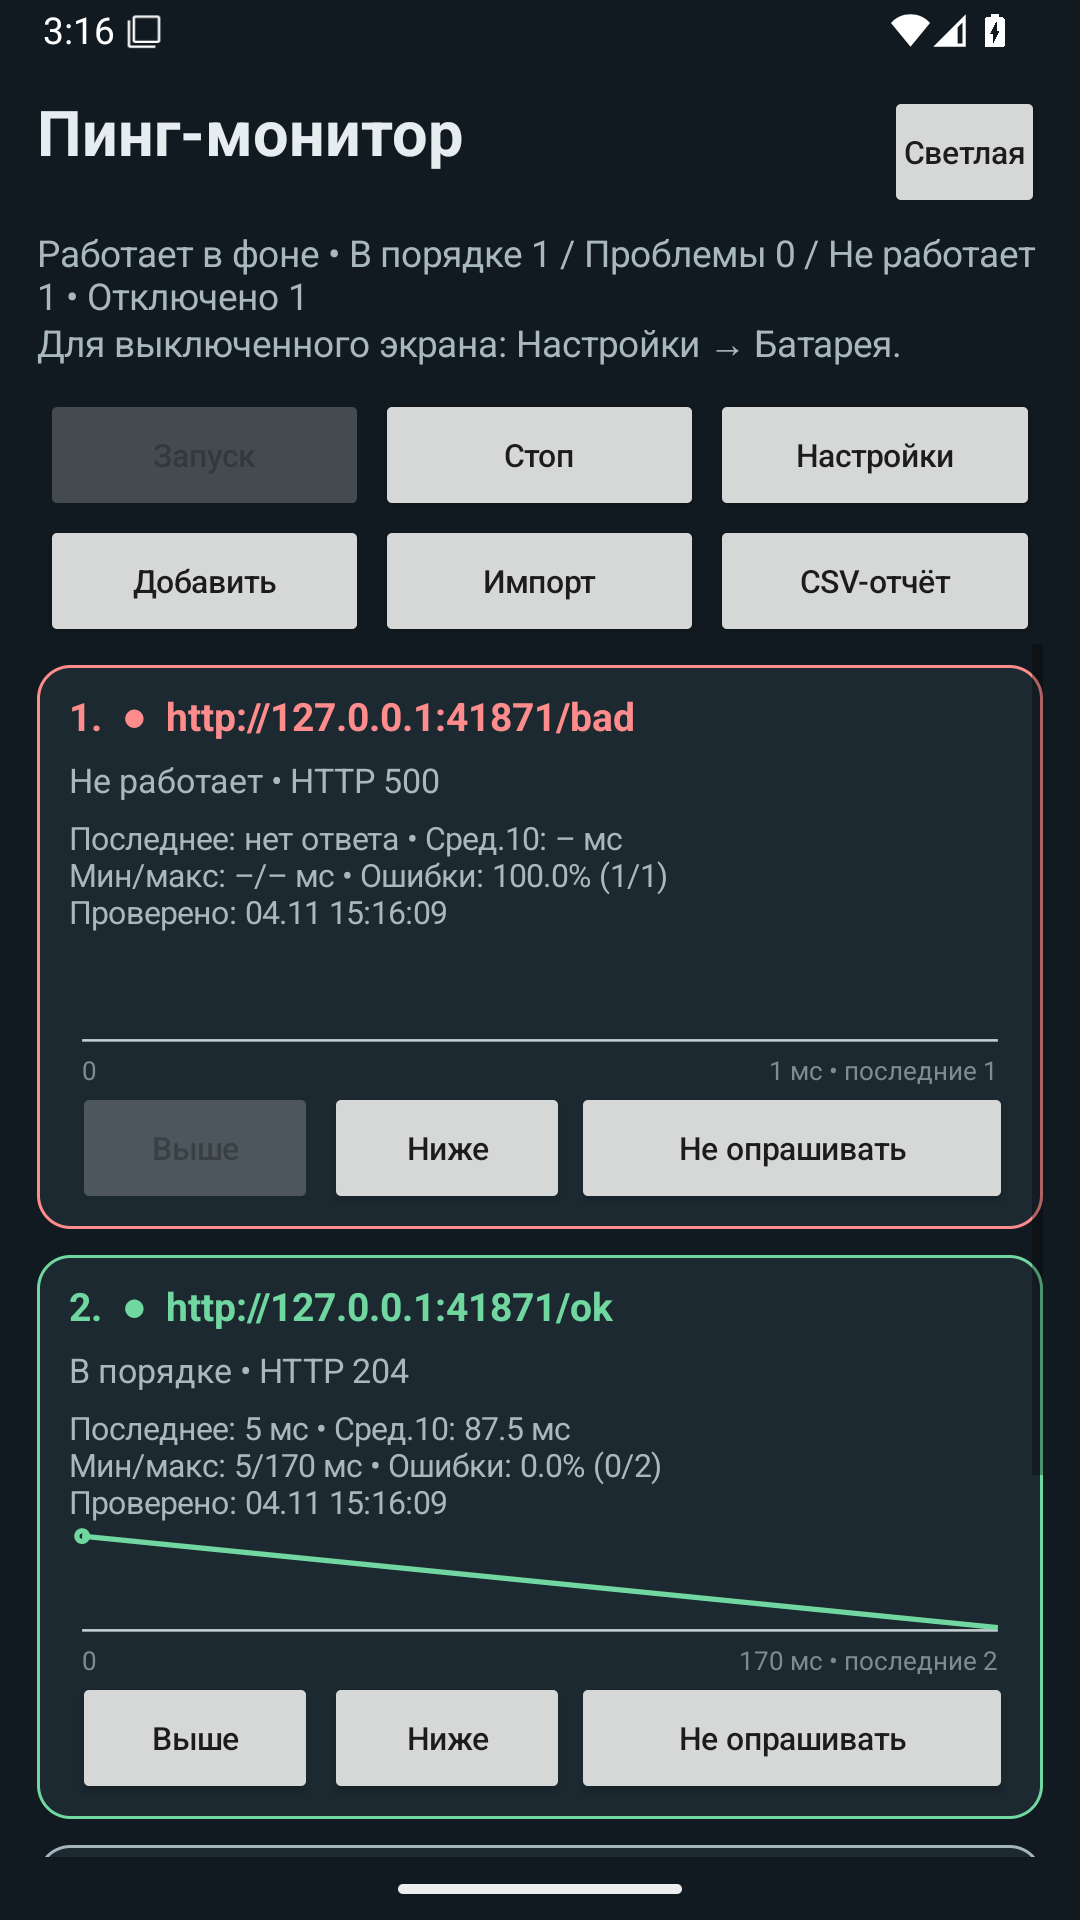
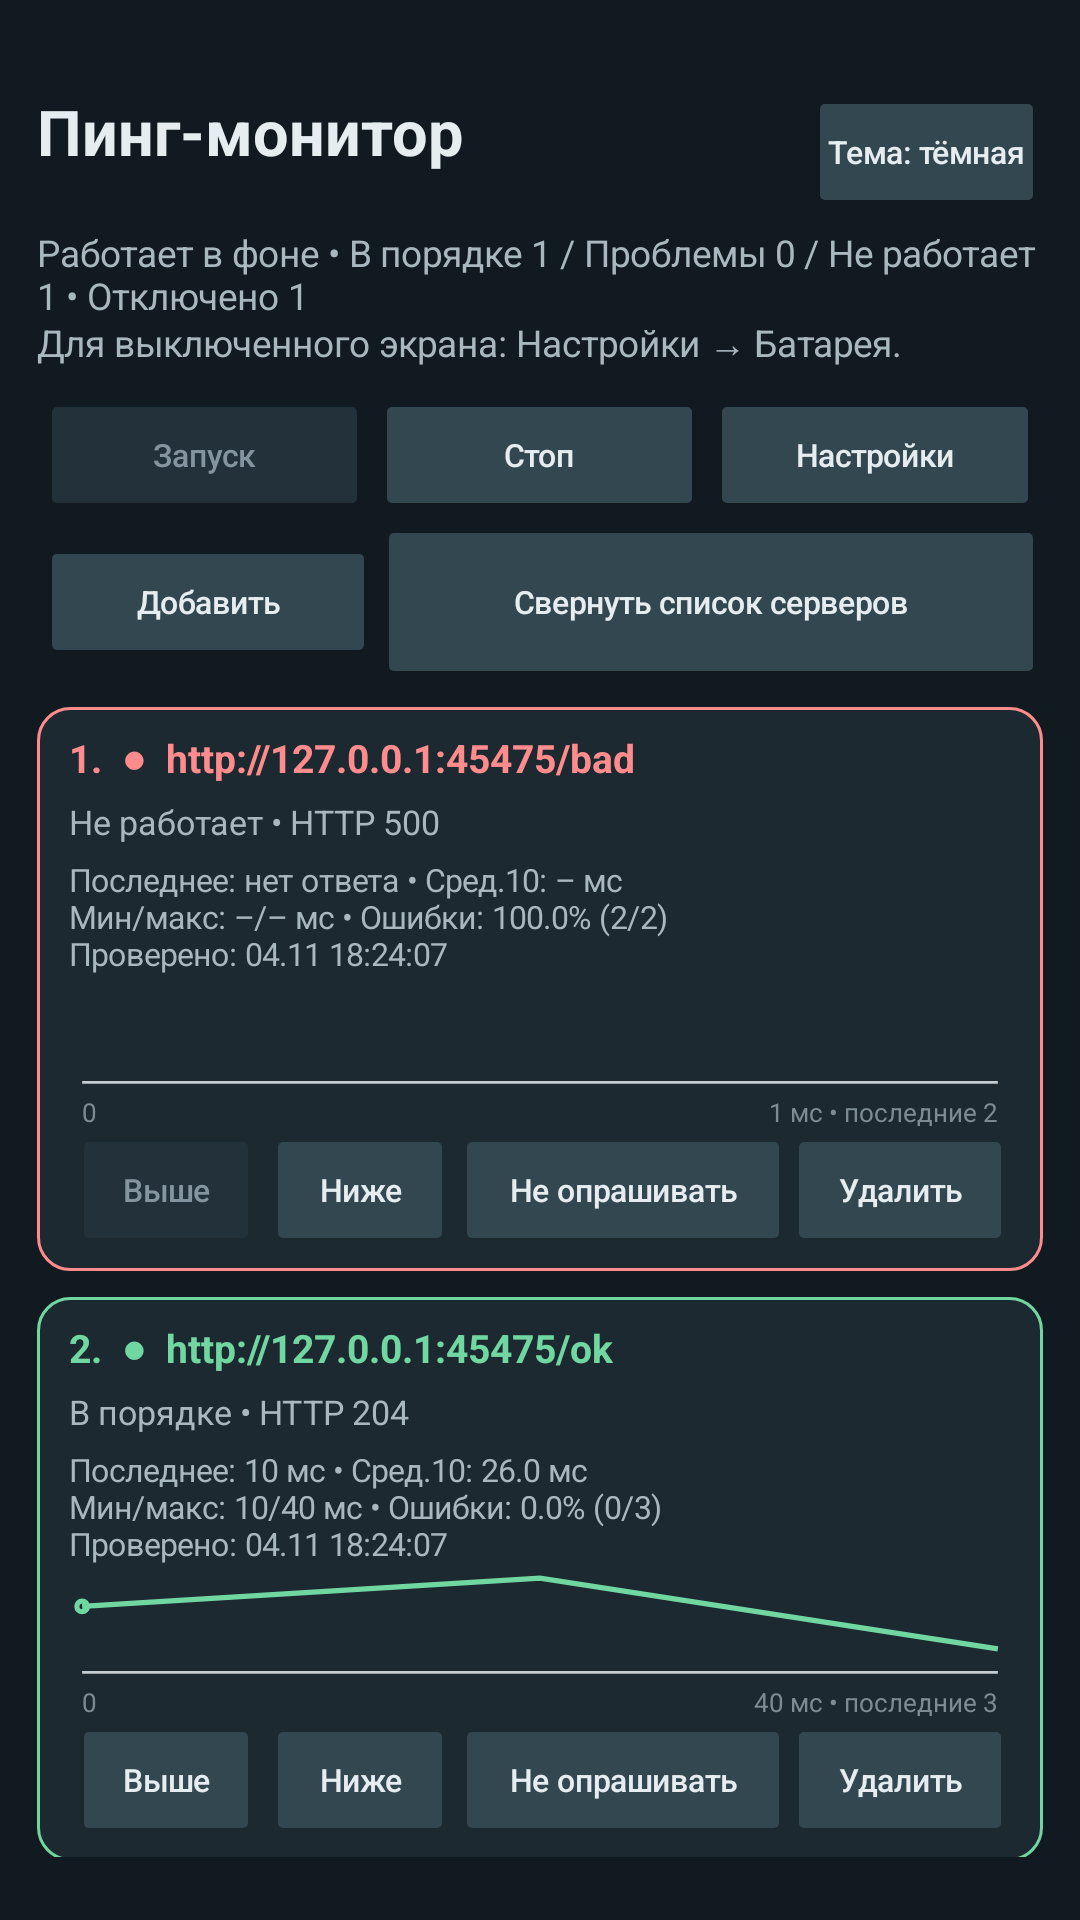
Document 1.1.0 verification and refresh native interface screenshots [skip ci]

diff --git a/docs/TESTING_1.1.0.md b/docs/TESTING_1.1.0.md
@@ -1,0 +1,52 @@
+# Проверка выпуска 1.1.0
+
+Исходники проверенного приложения: `f5068ee0404c243f47db5718ada94ccf7114cecc`. Итоговый [GitHub Actions](https://github.com/wadi-li/ping-monitor-android/actions/runs/41886158974) успешно завершил обе задачи: сборку и Android instrumentation; прошли 79 JVM-проверок и 121 проверка Android 15 / API 35.
+
+Последующие изменения перед публикацией затрагивают только документацию и снимки интерфейса, без изменений приложения и тестового сценария.
+
+## Логика и сборка
+
+- **JVM:** локально и в CI успешно выполнены 79 проверок. Помимо прежних сетевых интеграций проверены среднее последних семи полученных измерений, пропуск таймаутов, недостаточное число измерений, нулевое измерение и отсутствие ответов.
+- **Формат списка:** сохранение UTF-8 BOM, полного URL с `;` в query, порядка адресов и признаков опроса; обратный импорт, старые TXT/CSV без флагов, пустые строки и отклонение повреждённых значений.
+- **Сборки:** выполнены `assembleRelease`, `assembleDebug`, `assembleDebugAndroidTest` и `lintDebug`. Статический анализ: 0 ошибок, 6 предупреждений `SetTextI18n`/`HardcodedText` о локализации текущего русского интерфейса.
[1 lines of base64/hex data omitted]
+
+## Новый сценарий Android
+
+Инструментальный сценарий успешно выполнил 121 проверку на Android 15 / API 35, профиль Pixel 2 x86_64, с настоящим локальным HTTP-сервером. Помимо прежних проверок мониторинга проверены следующие операции:
+
+- **Компактный режим:** сохранение переключателя, горизонтальная строка из адреса/среднего/мини-графика, отсутствие полноразмерных кнопок, восстановление после пересоздания Activity и возврат к полной карточке.
+- **PNG:** нажатие строки, изображение `BitmapDrawable` в диалоге, сохранение через обработчик результата выбора документа и декодирование полученного файла 1200 × 400.
+- **Import / Export:** отдельный пункт в настройках, отсутствие файловых кнопок на главном экране, экспорт реального CSV-файла с BOM, порядком и флагами.
+- **Обратная загрузка:** изменение порядка и флага в интерфейсе, загрузка экспортированного файла и подтверждение замены, восстановление сохранённых значений.
+- **Удаление:** отдельная кнопка на карточке, отмена подтверждения без изменения списка и подтверждённое удаление из сохранённой конфигурации.
+- **Темы:** три варианта выбора, сохранение светлой/тёмной/системной темы, настоящее изменение `uiMode` эмулятора, пересоздание Activity и проверка цвета фона в системном режиме.
+- **Контраст кнопок:** проверены цвета текста и фона в светлом, тёмном, системном режимах и после повторного построения компактного списка. Отдельно осмотрены снимки обеих тем и компактного режима.
+
+## Итоговый APK
+
+```text
+Файл: ping-monitor-1.1.0.apk
+Идентичная копия для постоянной ссылки: ping-monitor.apk
+applicationId: ru.limar.pingmonitor
+versionName: 1.1.0
+versionCode: 10100
+minSdk: 26
+targetSdk: 35
+SHA-256 APK:
[1 lines of base64/hex data omitted]
+```
+
+APK получен из итогового успешного CI-прогона и дополнительно проверен локальным `apksigner verify`. Сертификат совпадает с выпуском 1.0.0; приватный ключ не находится в репозитории.
+
+## Границы проверки файлов и изображений
+
+Файловые Intent `ACTION_CREATE_DOCUMENT` и `ACTION_OPEN_DOCUMENT` перехватываются Instrumentation с фильтром MIME-типа и `CATEGORY_OPENABLE`. В обработчики приложения возвращаются URI реальных файлов в тестовом cache; проверяются запись, чтение, содержимое CSV и декодирование PNG. Это не проверка работы конкретного внешнего SAF-провайдера, Google Drive или файлового менеджера прошивки.
+
+Снимки `layout-light`, `layout-dark` и `compact` создаются отрисовкой нативного окна приложения в bitmap на Android. Они позволяют осмотреть само окно, но не доказывают корректность шторки, статусной строки и возможных внешних системных оверлеев.
+
+## На телефоне пользователя ещё не проверено
+
+Реальные серверы, VPN/DNS, системный ICMP, файловые провайдеры и долгий мониторинг с выключенным экраном требуют проверки на устройстве пользователя. Системный foreground service не отменяет ограничения Doze на сеть и wake lock; при необходимости настройте исключение из оптимизации батареи и разрешение фоновой работы производителя. ([Документация Android](https://developer.android.com/training/monitoring-device-state/doze-standby))
+
+После перезагрузки и force-stop нужен ручной запуск. Совместимость по `minSdk 26` не означает тестирование на всех Android 8+ и всех моделях телефонов.

diff --git a/README.md b/README.md
@@ -120,14 +120,18 @@ adb shell am instrument -w ru.limar.pingmonitor.test/ru.limar.pingmonitor.SmokeI
 
 Тест очищает данные только тестовой установки, создаёт локальный HTTP-сервер, проверяет перестановку, отключение/возобновление адреса, статусы, работу после сворачивания и сохранение настроек. Не запускайте его поверх своей рабочей установки с нужной статистикой.
 
-Подробный разбор исходного HTML: [docs/AUDIT.md](docs/AUDIT.md). Фактически выполненные проверки и непроверенные сценарии: [docs/TESTING.md](docs/TESTING.md).
+Подробный разбор исходного HTML: [docs/AUDIT.md](docs/AUDIT.md). Проверки обновления: [docs/TESTING_1.1.0.md](docs/TESTING_1.1.0.md); исторический отчёт 1.0.0: [docs/TESTING.md](docs/TESTING.md).
 
-Для выпуска 1.0.0 успешно выполнены 66 JVM-проверок и 35 Android instrumentation-проверок; сборка, lint и проверка постоянной подписи прошли в [итоговом CI-прогоне](https://github.com/wadi-li/ping-monitor-android/actions/runs/41856831278). Реальный телефон пользователя и длительный Doze не проверены.
+Для выпуска 1.1.0 успешно выполнены 79 JVM-проверок и 121 Android instrumentation-проверка; сборка, lint и проверка постоянной подписи прошли в [итоговом CI-прогоне](https://github.com/wadi-li/ping-monitor-android/actions/runs/41886158974). Проверены PNG, загрузка/сохранение списка, удаление, компактный режим и настоящее переключение системной темы; реальный телефон пользователя и длительный Doze не проверены.
 
 ## Снимки интерфейса
 
-Это снимки окна приложения на Android 15 из предыдущего успешного прогона с тем же production-кодом. Они иллюстрируют светлую и тёмную темы, а не служат подтверждением поведения шторки конкретного телефона.
+Это снимки отрисовки нативного окна приложения на Android 15 из итогового успешного прогона 1.1.0. Они иллюстрируют светлую/тёмную темы и компактный список, а не служат подтверждением поведения шторки конкретного телефона.
 
 | Светлая тема | Тёмная тема |
 |---|---|
 | ![Светлая тема](docs/screenshots/light.png) | ![Тёмная тема](docs/screenshots/dark.png) |
+
+### Компактный список
+
+![Компактный список серверов](docs/screenshots/compact.png)

diff --git a/docs/USER_GUIDE.md b/docs/USER_GUIDE.md
@@ -83,6 +83,6 @@ icmp://1.1.1.1
 
 ## Объём проверки
 
-Успешно выполнены 66 JVM-проверок и 35 проверок Android 15 на эмуляторе, включая настоящие HTTP/TCP-запросы, управление списком, работу после сворачивания и регистрацию foreground-уведомления. Итоговые сборка, lint и проверка постоянной подписи APK прошли; исходники и подробный отчёт `docs/TESTING.md` доступны в репозитории.
+Для версии 1.1.0 успешно выполнены 79 JVM-проверок и 121 проверка Android 15, включая среднее 7, сохранение порядка/флагов, PNG, импорт/экспорт, удаление и реальную смену системной темы. Итоговый [CI-прогон](https://github.com/wadi-li/ping-monitor-android/actions/runs/41886158974) также проверил сборку, lint и постоянную подпись; подробности и ограничения описаны в `docs/TESTING_1.1.0.md`.
 
 На реальном телефоне ещё нужно проверить отображение шторки, ограничения производителя, собственные адреса, ICMP и работу с выключенным экраном. APK предназначен для установки напрямую, не для Google Play; последующие CI-сборки используют сохранённый ключ, чтобы обновление не требовало удаления приложения.

diff --git a/docs/RELEASE_NOTES_1.1.0.md b/docs/RELEASE_NOTES_1.1.0.md
@@ -21,3 +21,7 @@
 Цветные кружки доступны в приложении и раскрытом уведомлении. Верхний значок Android монохромный: круг с галочкой, `!` или крестом. ([Правила Android](https://developer.android.com/design/ui/mobile/guides/home-screen/notifications))
 
 Для выключенного экрана настройте исключение из оптимизации батареи; foreground service не отменяет Doze. После перезагрузки или force-stop нужен ручной запуск; поведение конкретного телефона и многочасовой расход батареи требуют проверки на устройстве пользователя. ([Документация Doze](https://developer.android.com/training/monitoring-device-state/doze-standby))
+
+## Проверка выпуска
+
+Успешно выполнены 79 JVM-проверок и 121 проверка Android 15, включая файлы, PNG, удаление, компактный режим и настоящую смену системной темы. Сборка, lint и постоянная подпись проверены в [итоговом GitHub Actions](https://github.com/wadi-li/ping-monitor-android/actions/runs/41886158974); ограничения описаны в `docs/TESTING_1.1.0.md` в основной ветке репозитория.
